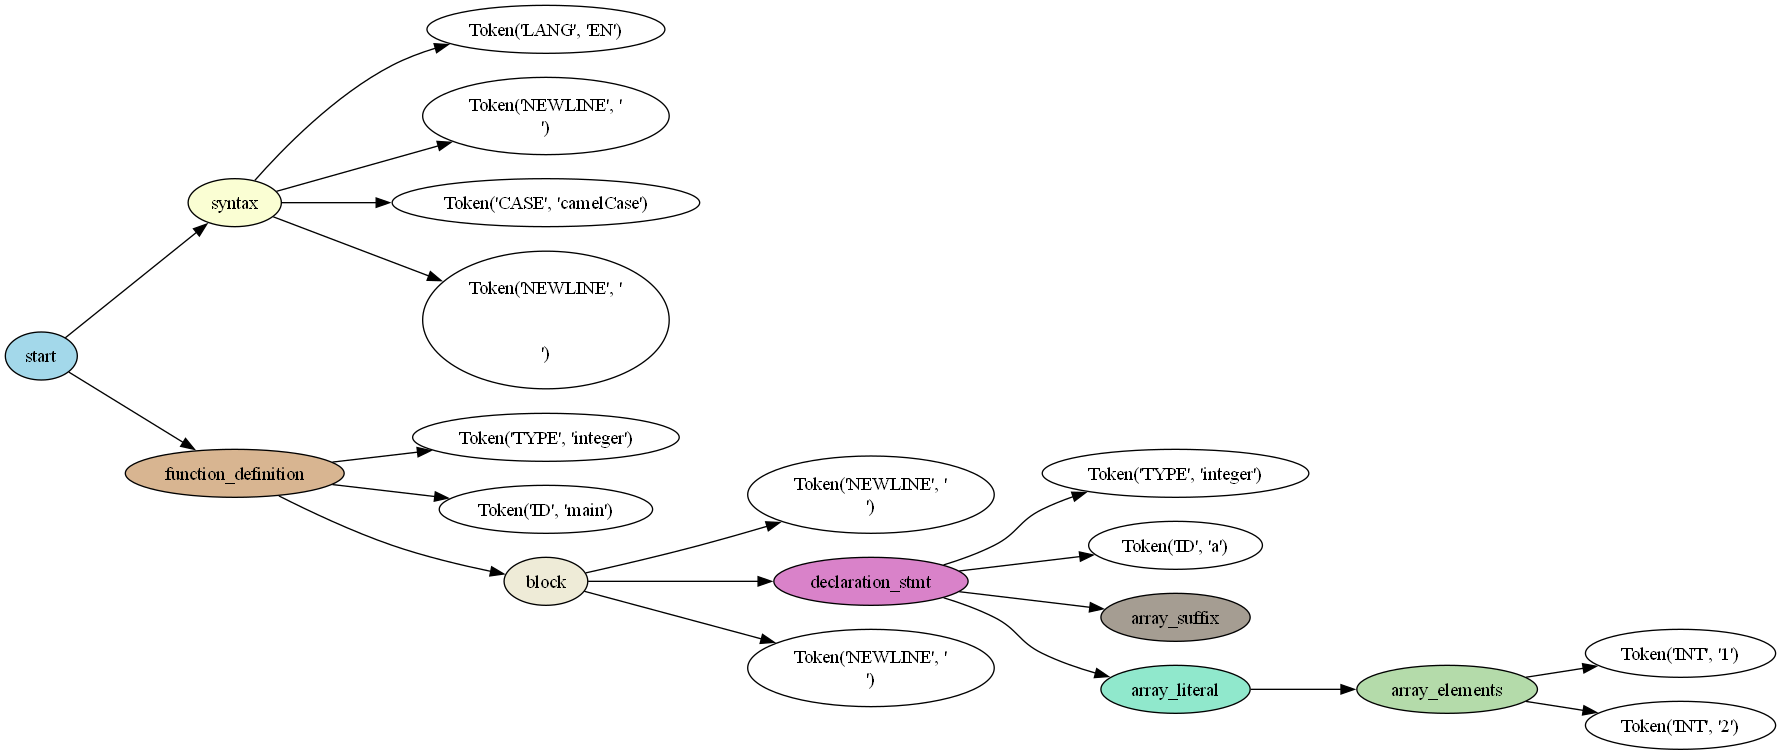
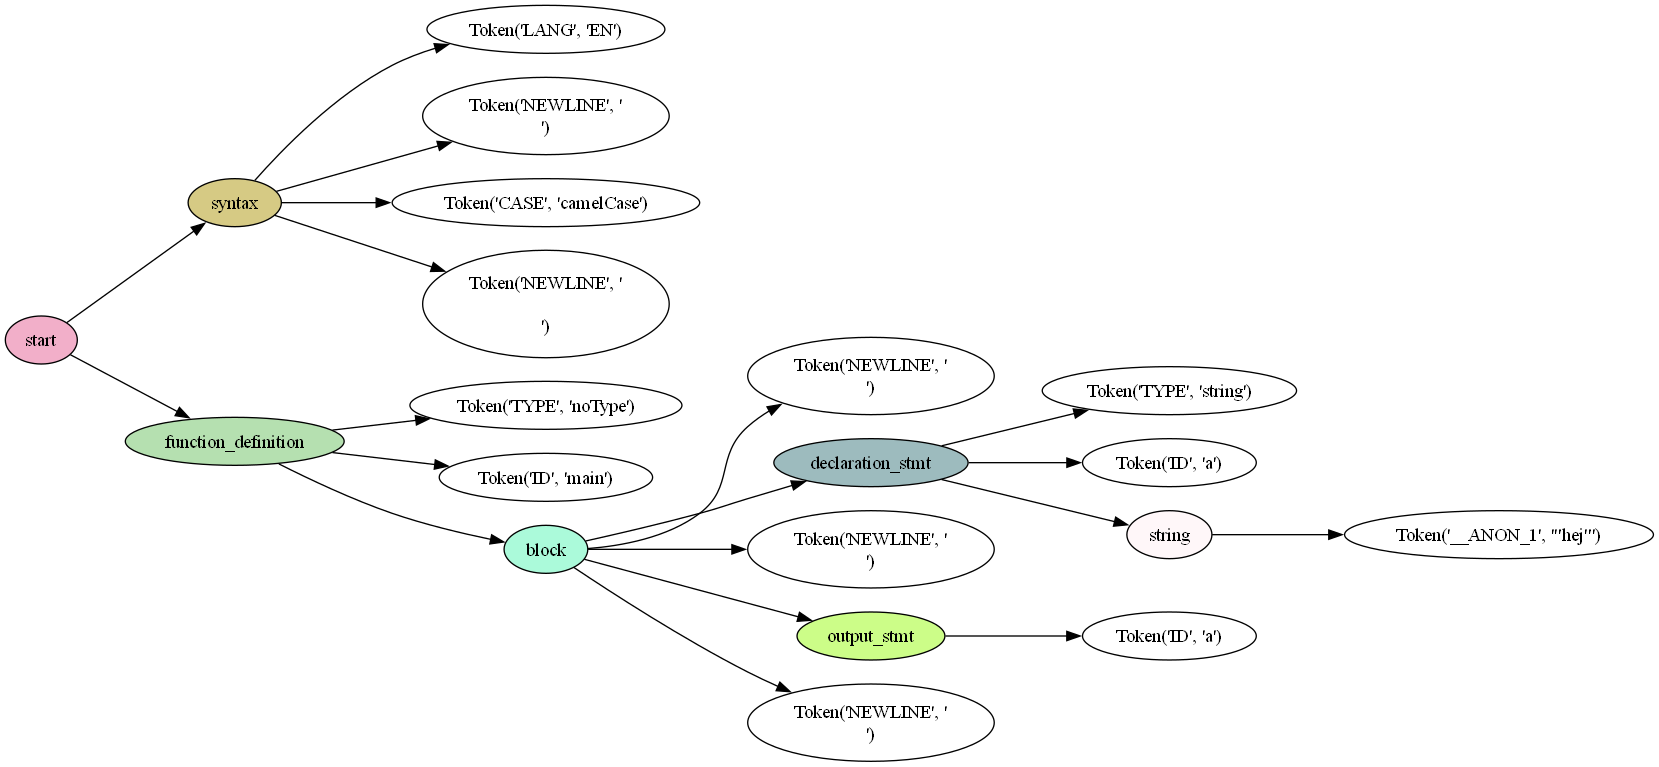
get funktion er omskrevet og blevet meget bedre. funktion og variable enrinoment er blevet adskilt.

diff --git a/src/p4/interpreter.py b/src/p4/interpreter.py
@@ -1,13 +1,12 @@
+from operator import contains
+
 from lark import Tree, Token
 from environment import Environment
 import ast
 
 class Interpreter:
-    def __init__(self, old_environment=None):
-        if old_environment is None:
-            self.env = Environment()
-        else:
-            self.env = old_environment
+    def __init__(self):
+        self.env = Environment()
 
 
 
@@ -29,7 +28,7 @@ class Interpreter:
 
 
     def isBoolean(self, bool):
-        if bool in (True, False, "true", "false"):
+        if bool in (True, False, "true", "false") and bool not in (0,1):
             return True
         else:
             raise Exception(f'{bool} is neither true nor false.')
@@ -46,7 +45,7 @@ class Interpreter:
         if node.type == "INT":
             return int(node)
         elif node.type == "ID":
-            return self.env.get(node)
+            return self.env.get_variable(node)
         elif node.type == "NEWLINE":
             return
         elif node.type == "BOOLEAN":
@@ -64,7 +63,7 @@ class Interpreter:
         return float(f"{number}.{fraction}")
 
     def visit_string(self, node):
-        string = node.children[0]
+        string = ast.literal_eval(node.children[0])
         return string
 
     def visit_uminus(self, node):
@@ -96,6 +95,7 @@ class Interpreter:
                 result -= operand
             else:
                 raise Exception(f'Unsupported operator: {operator}')
+
         return result
 
     def visit_mul_expr(self, node):
@@ -167,35 +167,35 @@ class Interpreter:
         name = node.children[1]
         type = node.children[0]
         children_amount = len(node.children)
-        if children_amount == 2:
-            self.env.declare(name,type)
+        if children_amount == 2: #Contains only name and type
+            self.env.declare_variable(name,type)
         elif self.isArray(node):
-            if self.hasValue(node.children[-1]):
-                array_depth = len(node.children) - 3
+            if self.hasValue(node.children[-1]): #Contains initial value for array
+                array_depth = len(node.children) - 3 #name, type and value children are discounted
                 array_values = self.visit(node.children[-1])
                 if not isinstance(array_values, list):
                     raise Exception(f'Cannot assign {array_values} to array variable {name}. Make sure it is a list of values separated by commas, and wrapped in brackets.')
-                self.env.declare(name, type, array_depth)
-                self.env.set(name, array_values, -1)
+                self.env.declare_variable(name, type, array_depth)
+                self.env.set_variable(name, array_values)
             else:
                 array_depth = len(node.children) - 2
-                self.env.declare(name, type, array_depth)
+                self.env.declare_variable(name, type, array_depth)
         else:
-            self.env.declare(name, type)
-            self.env.set(name, self.visit(node.children[-1]))
+            self.env.declare_variable(name, type)
+            self.env.set_variable(name, self.visit(node.children[-1]))
 
     def visit_assignment_stmt(self, node):
         name = node.children[0].children[0]
         value = self.visit(node.children[1])
         index_depth = len(node.children[0].children)-1
-        #fejlen ligger her ift, at assign array literals
+
         if index_depth == 0:
-            self.env.set(name, value)
+            self.env.set_variable(name, value)
         else:
             index_list = [None]*index_depth
             for i in range(index_depth):
                 index_list[i] = self.visit(node.children[0].children[i+1])
-            self.env.set(name, value, index_list)
+            self.env.set_variable(name, value, index_list)
 
 
     def visit_if_stmt(self, node):
@@ -235,37 +235,38 @@ class Interpreter:
         name = node.children[1]
         type = node.children[0]
         block = node.children[-1]
+        hasParams = True if len(node.children) == 4 else False
         if name == "main":
             self.visit(block)
-        else:
-            self.env.declare(name, type)
-            self.env.set(name, block)
-        if len(node.children) == 4:
+        elif hasParams:
             parameters = node.children[2]
-            self.env.declare(f'{name}_parameters', 'params')
-            self.env.set(f'{name}_parameters', parameters)
+            self.env.declare_function(name, type, block, parameters)
+        else:
+            self.env.declare_function(name, type, block)
+
 
     def visit_postfix_expr(self, node):
         name = node.children[0]
         suffix = node.children[-1]
         if suffix.data == "call_suffix":
-            function_interpreter = Interpreter(self.env)
+            function_interpreter = Interpreter()
+            function_interpreter.env.functions = self.env.functions.copy()
             if len(suffix.children) == 1:
                 parameters = suffix.children[0]
                 parameter_count = len(parameters.children)
                 for i in range(parameter_count):
-                    parameter_name = self.env.get(name+"_parameters").children[i].children[1].value
+                    parameter_name = self.env.get_function(name)['parameters'].children[i].children[1].value
                     parameter_value = self.visit(parameters.children[i])
-                    parameter_type = self.env.get(name+"_parameters").children[i].children[0].value
-                    function_interpreter.env.declare(parameter_name, parameter_type)
-                    function_interpreter.env.set(parameter_name, parameter_value)
-            return self.visit(function_interpreter.visit(name))
+                    parameter_type = self.env.get_function(name)['parameters'].children[i].children[0].value
+                    function_interpreter.env.declare_variable(parameter_name, parameter_type)
+                    function_interpreter.env.set_variable(parameter_name, parameter_value)
+            return self.visit(function_interpreter.visit(self.env.get_function(name)['block']))
         elif suffix.data == "array_access_suffix":
             indices = len(node.children)-1
             array_index = [None]*indices
             for i in range(indices):
                 array_index[i] = self.visit(node.children[i+1])
-            return self.env.get(name,array_index)
+            return self.env.get_variable(name,array_index)
         return None
 
     def visit_array_suffix(self, node):

diff --git a/src/p4/environment.py b/src/p4/environment.py
@@ -1,8 +1,9 @@
 class Environment:
     def __init__(self):
         self.variables = {}
+        self.functions = {}
 
-    def declare(self, name, type, array_depth=0):
+    def declare_variable(self, name, type, array_depth=0):
         if name in self.variables:
             raise NameError(f'Variable {name} already exists')
         self.variables[name] = {
@@ -13,7 +14,7 @@ class Environment:
         for _ in range(array_depth):
             self.variables[name]['value'] = [self.variables[name]['value']]
 
-    def get(self, name, array_index=None):
+    def get_variable(self, name, array_index=None):
         if name not in self.variables:
             raise NameError(f'Variable {name} is not defined')
         target = self.variables[name]['value']
@@ -28,35 +29,39 @@ class Environment:
 
         return target
 
-    def set(self, name, value, array_index=None):
+    def set_variable(self, name, value, array_index=None):
         if name not in self.variables:
             raise NameError(f'Variable {name} is not defined')
 
         variable_data = self.variables[name]
         target = variable_data['value']
-        dimensions = variable_data['arrayDepth']
+        variable_dimension = variable_data['arrayDepth']
+        value_dimension = self._get_dimensions(value)
+        index_dimension = len(array_index) if array_index is not None else 0
 
-
-
-        if array_index is None:
-            if dimensions != 0:
-                raise ValueError(f'Variable {name} requires {dimensions} indices, got 0')
-            else:
-                variable_data['value'] = value
-        elif array_index == -1:
+        if value_dimension + index_dimension != variable_dimension:
+            raise ValueError(f'Value {value} has wrong dimension, expected {variable_dimension + index_dimension}')
+        elif index_dimension == 0:
             variable_data['value'] = value
         else:
-            if len(array_index) != dimensions:
-                raise ValueError(f'Variable {name} requires {dimensions} indices, got {len(array_index)}')
-
             for i in array_index[:-1]:
-                while i >= len(target):
-                    target.append([])
                 target = target[i]
+            target[array_index[-1]] = value
 
-            while array_index[-1] >= len(target):
-                target.append(None)
-            target[array_index[-1]]  = value
+    def declare_function(self, name, return_type, block, parameters=None):
+        if name in self.functions:
+            raise NameError(f'Function {name} already exists')
+        self.functions[name] = {
+            'type': return_type,
+            'block': block
+        }
+        if parameters is not None:
+            self.functions[name]['parameters'] = parameters
+
+    def get_function(self, name):
+        if name not in self.functions:
+            raise NameError(f'Function {name} is not defined')
+        return self.functions[name]
 
     def _get_dimensions(self, value):
         depth = 0
